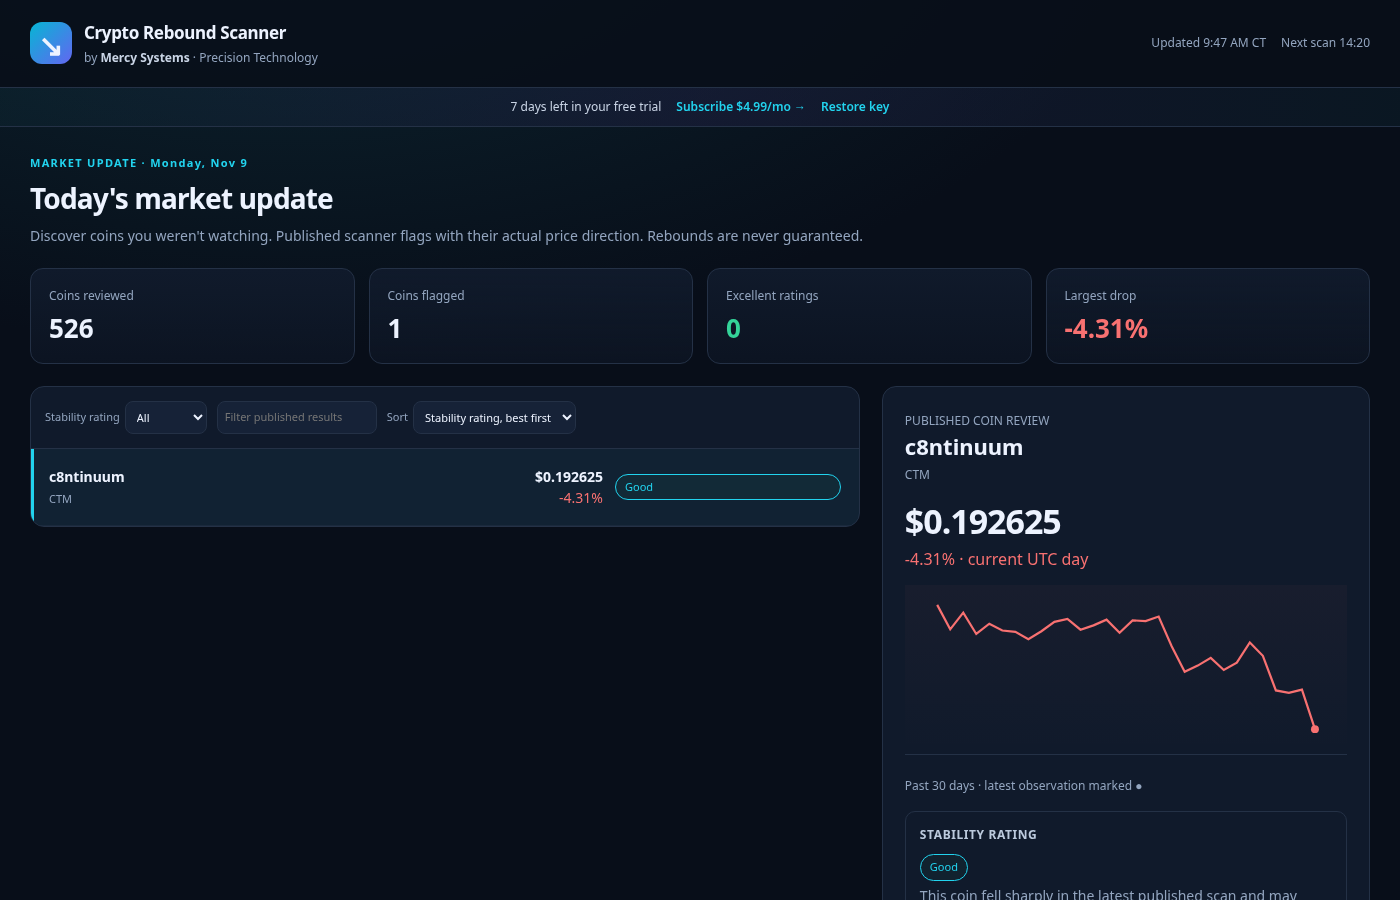
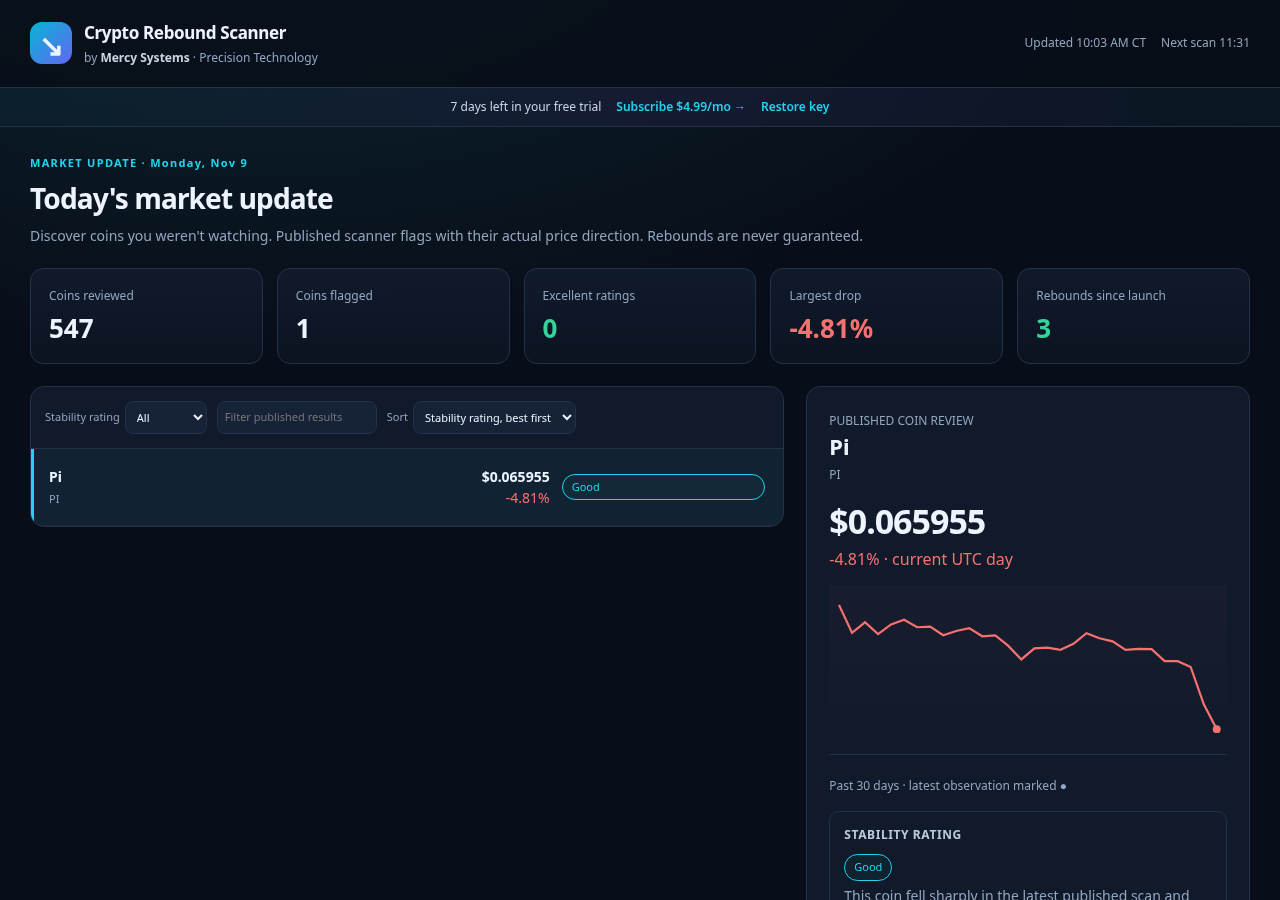
Add rebound counter beside CRS downloads and refresh app previews.
Shows rebounds since launch from the public scanner endpoint, with new
preview images that include the app rebound stat card.

diff --git a/public/crypto/index.html b/public/crypto/index.html
@@ -1,8 +1,31 @@
 <!doctype html><html lang="en"><head><meta charset="utf-8"><meta name="viewport" content="width=device-width,initial-scale=1"><meta name="description" content="Crypto Rebound Scanner by Mercy Systems. Published cryptocurrency market research covering sharp drops that may rebound."><title>Crypto Rebound Scanner | Mercy Systems</title><link rel="stylesheet" href="/crypto/site.css"></head><body><header><a href="/">MERCY SYSTEMS <small>PRECISION TECHNOLOGY</small></a><nav><a href="#research">The research</a><a href="#pricing">Pricing</a><a href="/#contact">Support</a></nav></header>
 <main><section class="hero"><div class="eyebrow">CRYPTOCURRENCY MARKET RESEARCH</div><div class="product-brand"><img class="product-icon" src="/crypto/assets/crs-icon.png" alt="" width="80" height="80"><h1>Crypto Rebound Scanner</h1></div><p class="lead">Discover the sharp drops.<br><span>Read the bigger picture.</span></p><p>One published market update. A broad sweep of the crypto market. Coins that fell sharply and may rebound — shown with a plain stability rating.</p>
-<div class="downloads" aria-label="App downloads"><button id="android" disabled>↓ Download for Android</button><button id="windows" disabled>↓ Download for Windows</button></div><p class="fine">7-day device-based trial · No card required · Then $4.99/month introductory price<br>One Android device + one Windows device per subscription. US-only subscriptions.</p><p class="release" id="release">Loading download links…</p><p class="fine founder-note">Developed by Mercy Systems, whose founder published the Hebel Sparse Exact-Scale Method in 2026.</p></section>
+<div class="downloads-row">
+<div class="downloads" aria-label="App downloads"><button id="android" disabled>↓ Download for Android</button><button id="windows" disabled>↓ Download for Windows</button></div>
+<div class="rebound-counter" id="reboundCounter" hidden>
+<span class="rebound-num" id="reboundCount">—</span>
+<span class="rebound-label">rebounds since launch</span>
+<span class="rebound-note">Price rose back above where we flagged it.</span>
+</div>
+</div><p class="fine">7-day device-based trial · No card required · Then $4.99/month introductory price<br>One Android device + one Windows device per subscription. US-only subscriptions.</p><p class="release" id="release">Loading download links…</p><p class="fine founder-note">Developed by Mercy Systems, whose founder published the Hebel Sparse Exact-Scale Method in 2026.</p></section>
 <section class="showcase"><img src="/crypto/assets/desktop-design.png" alt="Crypto Rebound Scanner desktop app"><p class="fine">Live app layout. Results change with each published market update.</p></section>
 <section id="research" class="grid"><article><span>01</span><h2>A wider view</h2><p>Reviews up to 1,000 coins ranked by market capitalization, not a list of favorites. Stablecoins, coins with insufficient daily history, and coins below $1 million in daily trading volume are excluded.</p></article><article><span>02</span><h2>Published, not personalized</h2><p>Every subscriber gets the same results, updated every 15 minutes. Apps update automatically after each published scan; opening the app never triggers a scan.</p></article><article><span>03</span><h2>Context, not a promise</h2><p>See each qualifying coin's drop, stability rating, and price trend. A stability rating is not a prediction of future returns. No trading, wallets, or buy/sell instructions.</p></article></section>
 <section class="phone"><img src="/crypto/assets/android-design.png" alt="Crypto Rebound Scanner phone layout"><div><div class="eyebrow">WINDOWS + ANDROID</div><h2>Research where you are.</h2><p>The same published commentary on your computer and phone. One subscription, one device of each type.</p><p>Start the free trial by opening the app. No card, no automatic charge when the trial ends. Subscribe through Stripe only if you choose to continue.</p><p>Deleting the app or changing an email does not restart a trial on the same identifiable device. Device identifiers can change after a factory reset, OS reinstall, or signing-key change; no anti-abuse system is perfect.</p></div></section>
 <section id="pricing" class="price"><div class="eyebrow">ONE SIMPLE PLAN</div><h2>$4.99 <small>/ month</small></h2><p>Introductory price. 7-day free trial. No card until you subscribe.</p><p>One Android device and one Windows device. Cancel future renewals through Manage subscription in the app. Access remains through the paid period unless immediately canceled, refunded, or payment fails. No investment outcomes are guaranteed.</p><a href="#android">Get the apps ↑</a></section>
-<section class="risk"><h2>Important risk notice</h2><p>Market commentary for informational purposes only. Not personalized investment advice.</p><p>Cryptocurrency prices are volatile and can lose substantial or all value. A hard drop may continue instead of rebounding. A stability rating is not safety or a forecast. Data may be delayed, incomplete, or inaccurate. The service does not hold funds, execute trades, or make recommendations tailored to you.</p><p>Market data source: CoinMarketCap. Third-party names do not imply endorsement.</p></section></main><footer><b>Mercy Systems · Precision Technology</b><p><a href="/crypto/privacy.html">Privacy</a> · <a href="/crypto/terms.html">Terms &amp; acceptable use</a> · <a href="/#contact">Contact &amp; device replacement</a></p><small>© 2026 Mercy Systems. All rights reserved.</small></footer><script src="/crypto/site.js"></script></body></html>
+<section class="risk"><h2>Important risk notice</h2><p>Market commentary for informational purposes only. Not personalized investment advice.</p><p>Cryptocurrency prices are volatile and can lose substantial or all value. A hard drop may continue instead of rebounding. A stability rating is not safety or a forecast. Data may be delayed, incomplete, or inaccurate. The service does not hold funds, execute trades, or make recommendations tailored to you.</p><p>Market data source: CoinMarketCap. Third-party names do not imply endorsement.</p></section></main><footer><b>Mercy Systems · Precision Technology</b><p><a href="/crypto/privacy.html">Privacy</a> · <a href="/crypto/terms.html">Terms &amp; acceptable use</a> · <a href="/#contact">Contact &amp; device replacement</a></p><small>© 2026 Mercy Systems. All rights reserved.</small></footer><script src="/crypto/site.js"></script>
+<script>
+(function(){
+  var el=document.getElementById('reboundCounter');
+  var num=document.getElementById('reboundCount');
+  if(!el||!num)return;
+  fetch('https://scanner.mercysystems.com/v1/public/rebounds',{credentials:'omit',mode:'cors'})
+    .then(function(r){if(!r.ok)throw new Error('bad');return r.json()})
+    .then(function(d){
+      if(typeof d.rebounds_since_launch!=='number')throw new Error('bad');
+      num.textContent=d.rebounds_since_launch.toLocaleString();
+      el.hidden=false;
+    }).catch(function(){el.hidden=true});
+})();
+</script>
+
+</body></html>

diff --git a/public/crypto/site.css b/public/crypto/site.css
@@ -1,1 +1,15 @@
 :root{color-scheme:dark}*{box-sizing:border-box}html{scroll-behavior:smooth}body{margin:0;background:#080e19;color:#eef4ff;font:16px system-ui,'Segoe UI',sans-serif;line-height:1.65}header{border-bottom:1px solid #243146;padding:20px max(24px,calc((100vw - 1180px)/2));display:flex;justify-content:space-between;gap:25px}header>a{font-weight:800;letter-spacing:.05em;color:#e2e8f0;text-decoration:none;font-size:16px}header small{display:block;font-size:9px;color:#93a5bf;letter-spacing:.22em}nav{display:flex;gap:25px;align-items:center;font-size:13px}a{color:#22d3ee}main{max-width:1180px;margin:auto;padding:0 24px}.hero{padding:55px 0 35px;max-width:860px}.eyebrow{color:#22d3ee;font-size:11px;letter-spacing:.16em;font-weight:750}.product-brand{display:flex;align-items:center;gap:18px;margin:16px 0 20px}.product-icon{width:80px;height:80px;border-radius:18px;flex-shrink:0;box-shadow:0 10px 30px #0007}h1{font-size:clamp(34px,5.2vw,56px);color:#eef4ff;margin:0;font-weight:800;letter-spacing:-.035em;line-height:1.08}.lead{font-size:clamp(33px,5vw,57px);font-weight:800;line-height:1.12;letter-spacing:-.04em;color:#eef4ff;margin:15px 0 22px}.lead span{color:#22d3ee}p{color:#93a5bf;max-width:780px}.downloads{display:flex;gap:14px;flex-wrap:wrap;margin:28px 0 14px}.downloads button{font:700 15px system-ui;padding:17px 24px;background:#22d3ee;color:#06202a;border:none;border-radius:10px;cursor:pointer}.downloads button:nth-child(2){background:#162237;border:1px solid #334155;color:#e2e8f0}.downloads button:disabled{opacity:.7;cursor:default}.downloads small{display:block;font-size:10px;font-weight:400;margin-top:3px}.fine{font-size:12px}.release{font-size:12px;padding:11px 15px;background:#fbbf2410;border:1px solid #fbbf2433;border-radius:8px;color:#c8ae77}.showcase img{width:100%;border-radius:14px;border:1px solid #243146;box-shadow:0 30px 90px #0006}.showcase .fine{text-align:center}.grid{display:grid;grid-template-columns:repeat(3,1fr);gap:22px;margin:70px 0}.grid article{padding:24px;background:#101a2b;border:1px solid #243146;border-radius:12px}.grid article>span{color:#22d3ee;font-size:11px}.grid h2{font-size:19px}.grid p{font-size:14px}.phone{display:grid;grid-template-columns:320px 1fr;gap:65px;align-items:center;margin:60px 0}.phone img{width:100%;max-height:680px;object-fit:contain;border-radius:20px}.phone h2{font-size:34px;letter-spacing:-.03em}.phone p{font-size:14px}.price{background:linear-gradient(100deg,#0c2937,#101a2b);border:1px solid #22475c;border-radius:15px;padding:40px;margin:50px 0}.price h2{font-size:48px;margin:10px 0;letter-spacing:-.04em}.price h2 small{font-size:17px;color:#93a5bf;letter-spacing:0}.price a{font-weight:700}.risk{border-top:1px solid #243146;padding:30px 0}.risk h2{font-size:16px}.risk p{font-size:12px}footer{text-align:center;padding:35px 24px;border-top:1px solid #243146;font-size:12px;color:#93a5bf}footer p{margin:auto}.legal{max-width:850px;padding:50px 24px;margin:auto}.legal h1{font-size:34px;color:#eef4ff}.legal h2{font-size:20px;margin-top:30px}.legal p,.legal li{font-size:14px;color:#a6b6cb}@media(max-width:720px){.product-brand{gap:14px;margin:12px 0 16px}.product-icon{width:64px;height:64px;border-radius:14px}h1{font-size:clamp(28px,8vw,40px)}header{padding:16px}nav a:not(:last-child){display:none}.hero{padding-top:32px}.grid{grid-template-columns:1fr;margin:35px 0;gap:14px}.phone{grid-template-columns:1fr;gap:25px}.phone img{max-height:580px}.downloads{display:grid;grid-template-columns:1fr;width:100%}.phone h2{font-size:28px}.price{padding:25px}.showcase{overflow:hidden}}
+
+/* Rebound counter beside downloads */
+.downloads-row{display:flex;flex-wrap:wrap;align-items:stretch;gap:18px;margin:22px 0 8px}
+.downloads{display:flex;flex-wrap:wrap;gap:12px;align-items:center}
+.rebound-counter{display:flex;flex-direction:column;justify-content:center;min-width:180px;padding:14px 20px;border:1px solid rgba(255,255,255,.18);border-radius:14px;background:linear-gradient(180deg,rgba(34,197,94,.18),rgba(16,26,43,.55));box-shadow:0 8px 24px rgba(0,0,0,.25)}
+.rebound-counter[hidden]{display:none!important}
+.rebound-num{font-size:2.1rem;font-weight:800;line-height:1;color:#4ade80;font-variant-numeric:tabular-nums;letter-spacing:-.02em}
+.rebound-label{font-size:.95rem;font-weight:600;color:#e8eef8;margin-top:4px}
+.rebound-note{font-size:.72rem;color:#9aa8bc;margin-top:6px;max-width:16rem;line-height:1.35}
+@media (max-width:640px){
+  .downloads-row{flex-direction:column;align-items:stretch}
+  .rebound-counter{min-width:0;width:100%}
+  .rebound-num{font-size:1.85rem}
+}
